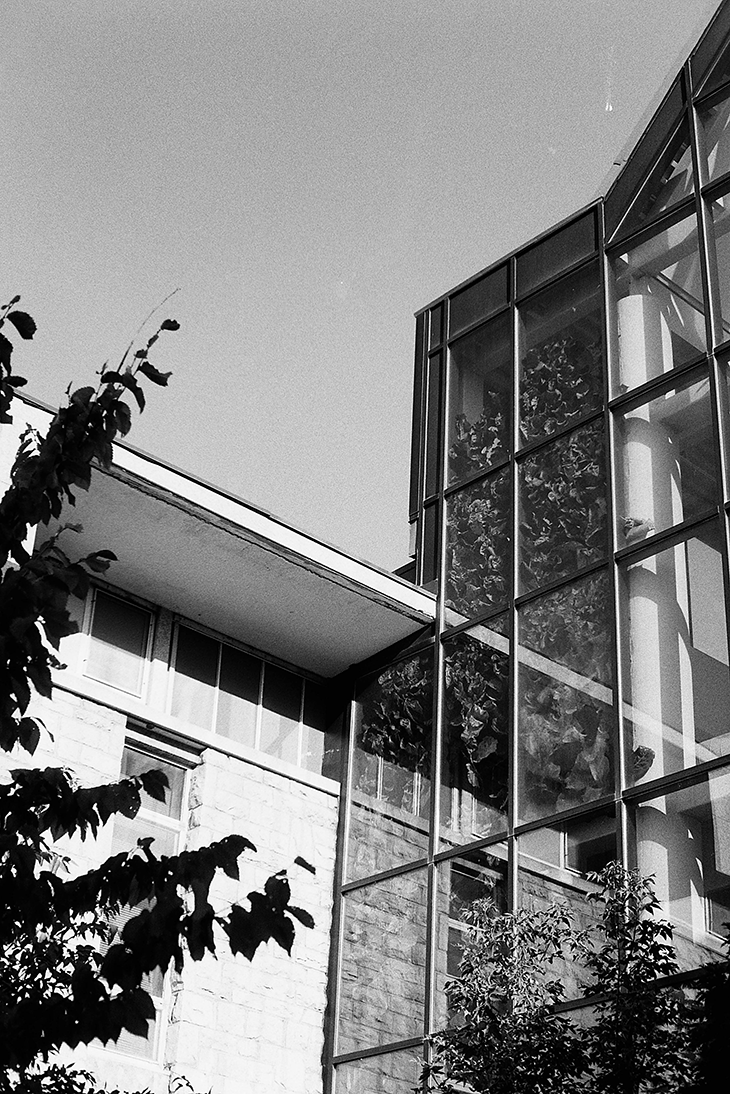
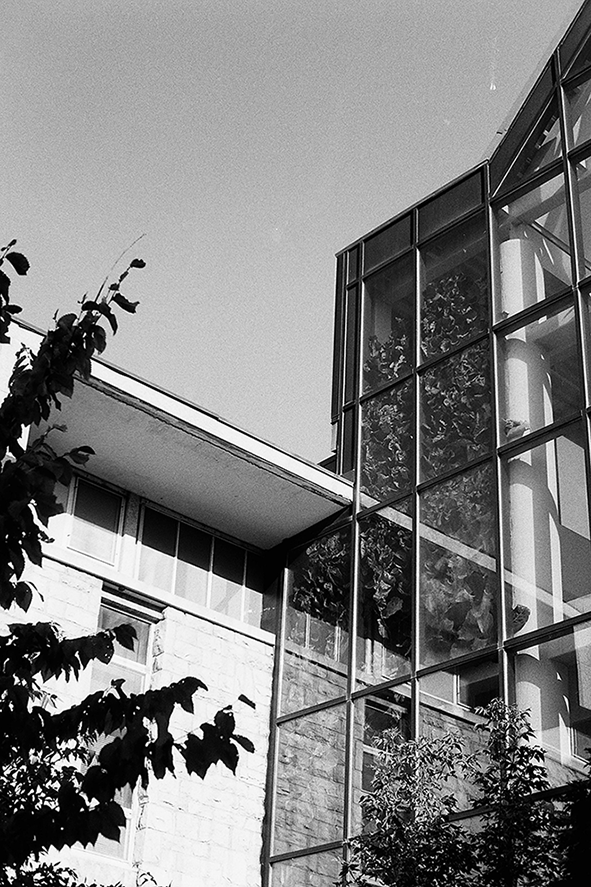
Remove unused pictures and lowered resolution of large images

diff --git a/stylesheets/style.css b/stylesheets/style.css
@@ -7,6 +7,7 @@ body{
     padding:0;
     font-family: 'Ubuntu', sans-serif;
     background-color:rgb(33,37,43);
+    
 }
 
 a{
@@ -25,7 +26,7 @@ p{
     width:200px;
     height:100%;
     background-color:rgb(40,44,52) ;
-    background-color:rgb(50,54,62);
+/*    background-color:rgb(50,54,62);*/
     position:fixed ;
     text-align: center;
 }
